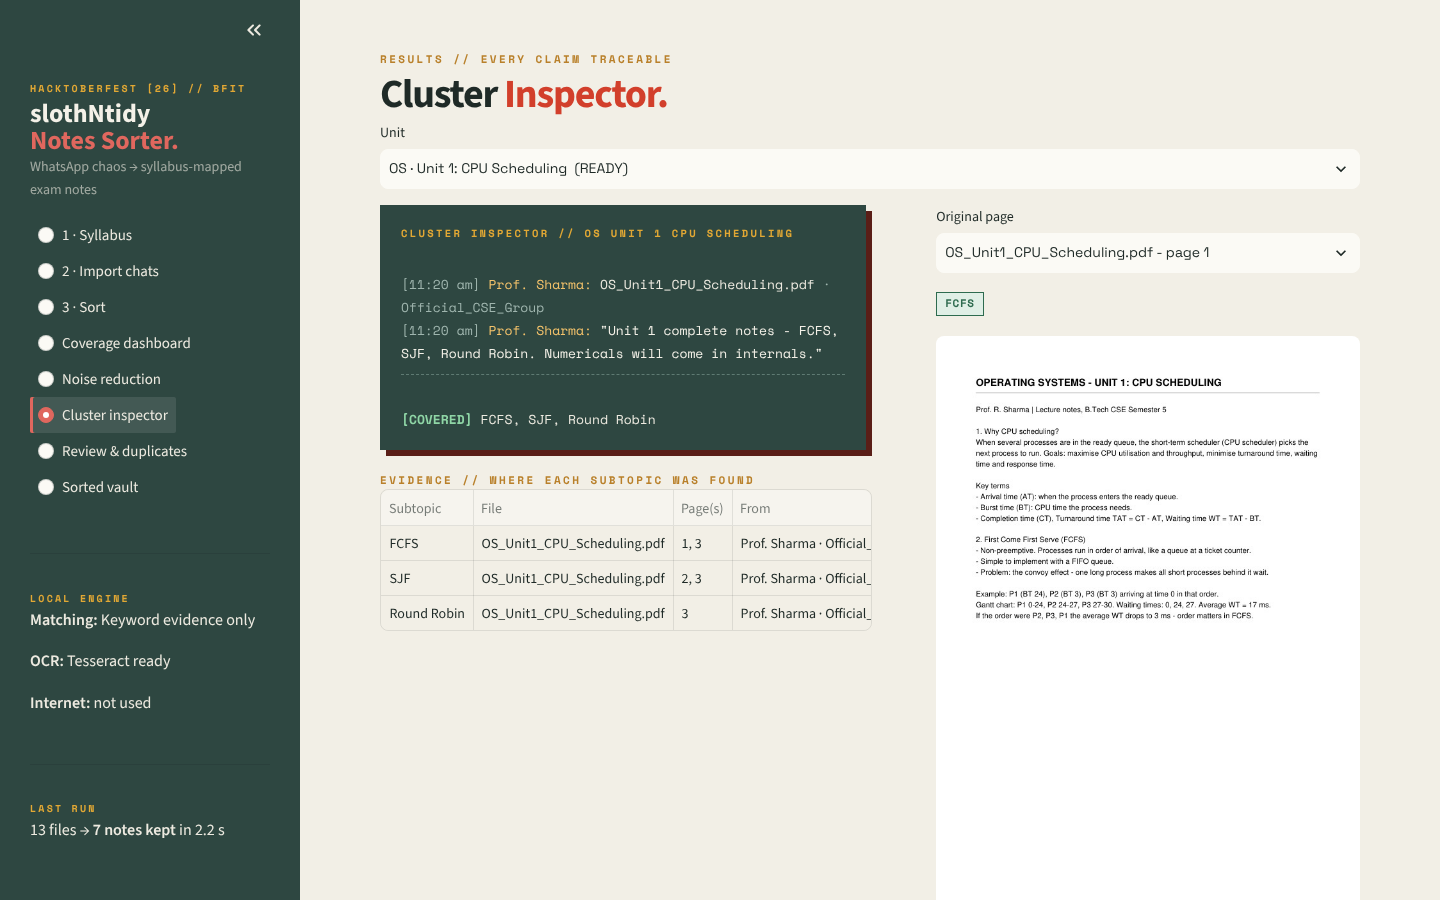
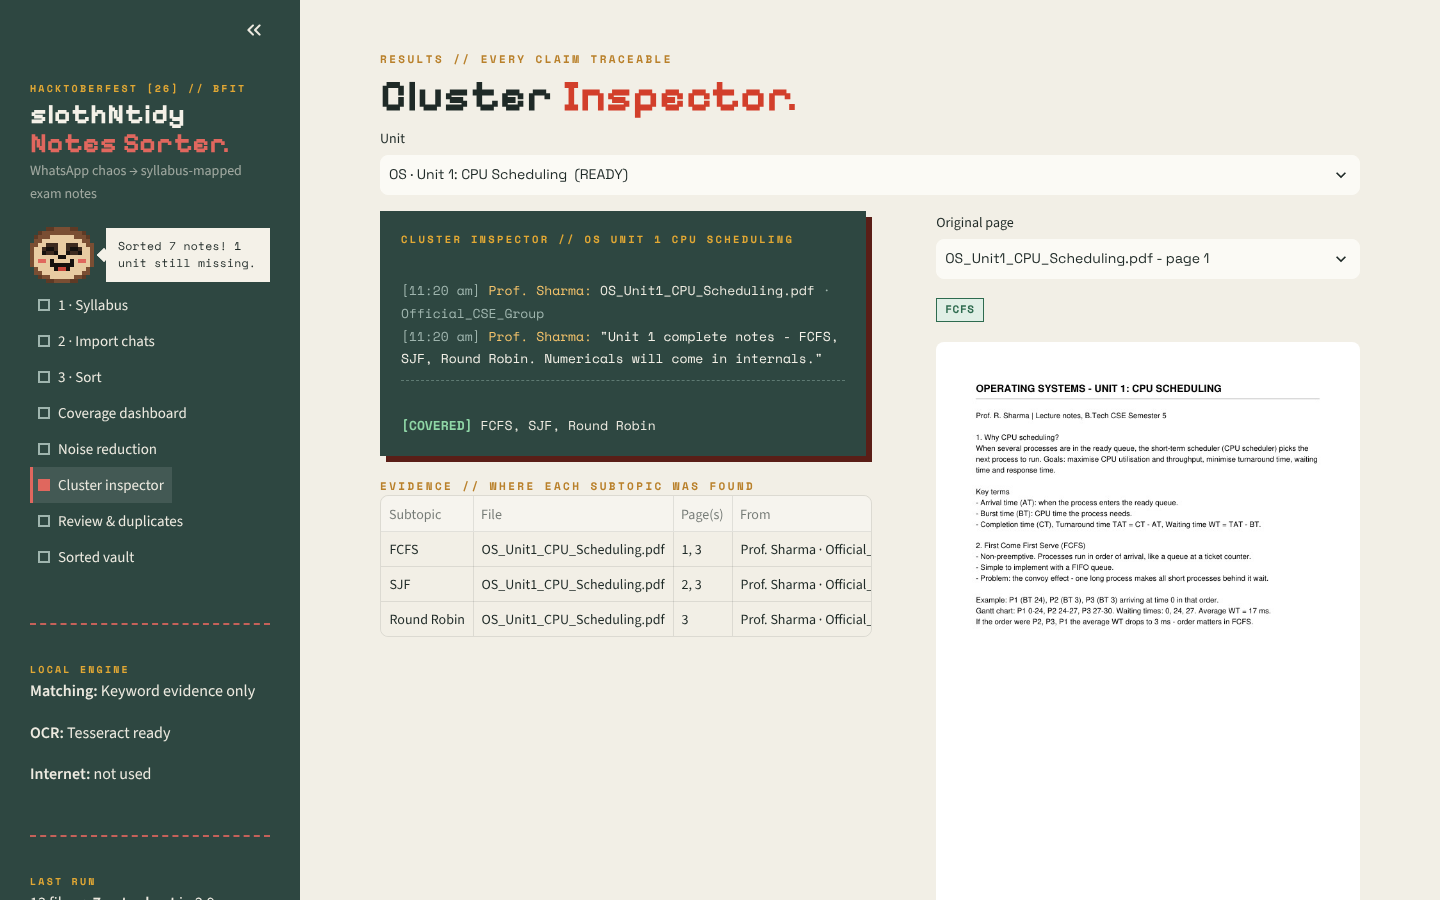
feat(ui): hybrid retro look - pixel titles, Sid the pixel sloth mascot, level-style sorting progress
Deck colours and readable body text kept; pixel font only for titles and logo.

Claude-Session: https://claude.ai/code/session_013TvLScgdniL2RkNJJHxvzR

diff --git a/app.py b/app.py
@@ -20,6 +20,7 @@ from config import (DEMO_INBOX, INBOX_FOLDER, OUTPUT_FOLDER, REPORT_JSON, REPORT
 from embedder import load_embedder
 from parser import scan_inbox
 from pipeline import STAGES, assign_to_unit, mark_not_in_syllabus, restore_removed, run
+from mascot import sloth_with_bubble
 from syllabus import load_syllabus, load_syllabus_doc, save_syllabus_doc
 
 HERE = os.path.dirname(os.path.abspath(__file__))
@@ -50,6 +51,9 @@ def _css():
         _font_face("Space Grotesk", "space-grotesk-latin-700-normal.woff2", 700),
         _font_face("Space Mono", "space-mono-latin-400-normal.woff2", 400),
         _font_face("Space Mono", "space-mono-latin-700-normal.woff2", 700),
+        _font_face("Pixelify Sans", "pixelify-sans-latin-400-normal.woff2", 400),
+        _font_face("Pixelify Sans", "pixelify-sans-latin-600-normal.woff2", 600),
+        _font_face("Pixelify Sans", "pixelify-sans-latin-700-normal.woff2", 700),
     ])
     return faces + """
 :root{--green:#2E4741;--green2:#3B5A52;--coral:#E0675E;--red:#D23F2B;--redbg:#F8DCD6;--cream:#F2EFE6;
@@ -60,21 +64,26 @@ code,pre,.mono{font-family:'Space Mono',ui-monospace,monospace!important;}
 [data-testid="stSidebar"]{background:var(--green);}
 [data-testid="stSidebar"] *{color:#EDEAE0;}
 [data-testid="stSidebar"] .stRadio label p{font-size:15px;}
-[data-testid="stSidebar"] [role="radiogroup"] label{padding:6px 8px;border-radius:2px;}
+[data-testid="stSidebar"] [role="radiogroup"] label{padding:6px 8px;border-radius:0;}
+[data-testid="stSidebar"] [role="radiogroup"] label > div > div:first-child{border-radius:0!important;width:12px!important;height:12px!important;
+ border:2px solid #9FB5AE!important;background:transparent!important;}
+[data-testid="stSidebar"] [role="radiogroup"] label > div > div:first-child > div{display:none!important;}
+[data-testid="stSidebar"] [role="radiogroup"] label:has(input:checked) > div > div:first-child{background:var(--coral)!important;border-color:var(--coral)!important;}
+[data-testid="stSidebar"] hr{border:none!important;border-top:2px dashed var(--coral)!important;opacity:.85;}
 [data-testid="stSidebar"] [role="radiogroup"] label:has(input:checked){background:rgba(255,255,255,.10);box-shadow:inset 3px 0 0 var(--coral);}
 .block-container{padding-top:2.2rem;max-width:1180px;}
 h1,h2,h3{font-family:'Space Grotesk',sans-serif!important;letter-spacing:-.02em;color:var(--ink);}
 .kicker{font-family:'Space Mono',monospace;font-size:11px;letter-spacing:.22em;text-transform:uppercase;color:#B9802A;font-weight:700;}
 .side-kicker{font-family:'Space Mono',monospace;font-size:10px;letter-spacing:.22em;color:var(--mustard)!important;font-weight:700;margin-top:.3rem;}
-.brand{font-size:26px;font-weight:700;line-height:1.05;margin:.2rem 0 .1rem;color:#F4F1E8!important;}
+.brand{font-family:'Pixelify Sans',monospace!important;font-size:28px;font-weight:700;line-height:1.05;margin:.2rem 0 .1rem;color:#F4F1E8!important;letter-spacing:.01em;}
 .brand span{color:var(--coral)!important;}
-.page-title{font-size:40px;font-weight:700;line-height:1.05;margin:.25rem 0 .4rem;color:var(--ink);letter-spacing:-.03em;}
+.page-title{font-family:'Pixelify Sans',monospace!important;font-size:44px;font-weight:700;line-height:1.05;margin:.25rem 0 .5rem;color:var(--ink);letter-spacing:.005em;}
 .page-title span{color:var(--red);}
 .lede{color:var(--muted);font-size:16px;max-width:760px;margin-bottom:1.2rem;}
 .card{background:var(--paper);border:1.5px solid var(--ink);box-shadow:6px 6px 0 var(--shadow);padding:18px 20px;margin:0 6px 18px 0;}
 .card.dark{background:var(--green);color:#EDEAE0;border-color:var(--green);}
 .card.dark *{color:#EDEAE0;}
-.note{background:var(--paper);border:1.5px solid var(--ink);padding:12px 16px;font-size:14px;color:var(--ink);box-shadow:5px 5px 0 var(--shadow);margin:10px 6px 18px 0;}
+.note{background:var(--paper);border:2px dashed var(--ink);padding:12px 16px;font-size:14px;color:var(--ink);box-shadow:5px 5px 0 var(--shadow);margin:10px 6px 18px 0;}
 .note .kicker{display:block;margin-bottom:4px;}
 .stats{display:grid;grid-template-columns:repeat(6,1fr);gap:14px;margin:4px 6px 22px 0;}
 .stat{background:var(--paper);border:1.5px solid var(--ink);padding:12px 14px;box-shadow:4px 4px 0 var(--shadow);}
@@ -106,24 +115,43 @@ h1,h2,h3{font-family:'Space Grotesk',sans-serif!important;letter-spacing:-.02em;
 .chat .ts{color:#9FB5AE;} .chat .who{color:#F4C36B;} .chat .cap{color:#F4F1E8;}
 .chat .cov{color:#8FD6A6;font-weight:700;} .chat .nc{color:#FF8C7A;font-weight:700;} .chat .rv{color:#9DBBF0;font-weight:700;}
 .chat hr{border:none;border-top:1px dashed #5E7A72;margin:10px 0;}
-.how{font-family:'Space Mono',monospace;font-size:12.5px;background:var(--paper);border:1.5px solid var(--ink);padding:12px 16px;margin:16px 6px 16px 0;}
+.how{font-family:'Space Mono',monospace;font-size:12.5px;background:var(--paper);border:2px dashed var(--ink);padding:12px 16px;margin:16px 6px 16px 0;}
 .how b{color:var(--red);}
 .tag{display:inline-block;font-family:'Space Mono',monospace;font-size:11px;font-weight:700;letter-spacing:.06em;padding:2px 8px;border:1.3px solid var(--ink);margin:0 6px 4px 0;background:#fff;}
 .tag.red{background:var(--redbg);color:var(--red);border-color:var(--red);}
 .tag.blue{background:#E2EAF7;color:var(--blue);border-color:var(--blue);}
 .tag.ok{background:#E0EFE6;color:var(--ok);border-color:var(--ok);}
 .stagebar{display:grid;grid-template-columns:repeat(7,1fr);gap:8px;margin:8px 6px 16px 0;}
-.stage{border:1.5px solid var(--ink);padding:10px 8px;background:var(--paper);font-size:13px;font-weight:600;}
-.stage .s{font-family:'Space Mono',monospace;font-size:9.5px;letter-spacing:.2em;color:var(--muted);display:block;}
+.stage{border:2px dashed var(--ink);padding:10px 8px;background:var(--paper);font-size:13px;font-weight:600;}
+.stage .s{font-family:'Pixelify Sans',monospace;font-size:13px;letter-spacing:.06em;color:var(--muted);display:block;}
+.stage.done,.stage.now{border-style:solid;}
 .stage.done{background:var(--green);color:#F4F1E8;} .stage.done .s{color:var(--mustard);}
 .stage.now{background:var(--coral);color:#fff;} .stage.now .s{color:#fff;}
 .tree{font-family:'Space Mono',monospace;font-size:13px;background:var(--paper);border:1.5px solid var(--ink);padding:14px 18px;
  box-shadow:6px 6px 0 var(--shadow);line-height:1.7;white-space:pre;overflow-x:auto;margin-right:6px;}
 div.stButton>button,div.stDownloadButton>button{border-radius:0;border:1.5px solid var(--ink);font-weight:600;box-shadow:3px 3px 0 var(--shadow);}
-div.stButton>button[kind="primary"]{background:var(--coral);color:#fff;border-color:var(--ink);}
+div.stButton>button[kind="primary"]{background:var(--coral);color:#fff;border-color:var(--ink);outline:2px dashed rgba(255,255,255,.75);outline-offset:-6px;}
 div.stButton>button:hover,div.stDownloadButton>button:hover{transform:translate(1px,1px);box-shadow:2px 2px 0 var(--shadow);}
 [data-testid="stExpander"]{border-radius:0;border:1.5px solid var(--ink);background:var(--paper);}
 [data-testid="stFileUploaderDropzone"]{border-radius:0;border:2px dashed var(--green);background:var(--paper);}
+.mascot{display:flex;align-items:center;gap:12px;margin:6px 0 4px;position:relative;}
+.mascot .sloth{flex:none;image-rendering:pixelated;}
+.mascot .sloth-working{animation:bob .5s steps(2) infinite;}
+.mascot .sloth-happy{animation:hop 1.6s steps(2) infinite;}
+@keyframes bob{50%{transform:translateY(-3px);}}
+@keyframes hop{0%,70%{transform:none;}85%{transform:translateY(-4px);}}
+.bubble{position:relative;background:#fff;color:var(--ink)!important;border:2px dashed var(--ink);font-family:'Space Mono',monospace;
+ font-size:11.5px;line-height:1.45;padding:8px 10px;letter-spacing:.02em;}
+.bubble *{color:var(--ink)!important;}
+.bubble::before{content:"";position:absolute;left:-9px;top:50%;width:10px;height:10px;background:#fff;
+ border-left:2px dashed var(--ink);border-bottom:2px dashed var(--ink);transform:translateY(-50%) rotate(45deg);}
+[data-testid="stSidebar"] .bubble{background:#F4F1E8;border-color:#F4F1E8;}
+[data-testid="stSidebar"] .bubble::before{background:#F4F1E8;border-color:#F4F1E8;}
+.zz{position:absolute;left:62px;top:-6px;font-family:'Pixelify Sans',monospace;color:var(--mustard)!important;font-size:13px;
+ animation:zz 2s steps(3) infinite;}
+.zz b{font-size:16px;color:var(--mustard)!important;} .zz i{font-size:19px;font-style:normal;color:var(--mustard)!important;}
+@keyframes zz{0%{opacity:.3;}50%{opacity:1;}100%{opacity:.3;}}
+.hero-mascot{border:2px dashed var(--ink);background:var(--paper);padding:14px 18px;margin:0 6px 18px 0;box-shadow:5px 5px 0 var(--shadow);}
 @media (max-width:900px){.stats{grid-template-columns:repeat(2,1fr);}.thead{display:none;}.stagebar{grid-template-columns:repeat(4,1fr);}
  .funnel-row{grid-template-columns:1fr;}}
 """
@@ -248,6 +276,14 @@ with st.sidebar:
     st.markdown('<div class="side-kicker">HACKTOBERFEST [26] // BFIT</div>'
                 '<div class="brand">slothNtidy<br><span>Notes Sorter.</span></div>', unsafe_allow_html=True)
     st.caption("WhatsApp chaos → syllabus-mapped exam notes")
+    if R:
+        _miss = sum(u["status"] == "MISSING" for u in R["units"])
+        _msg = (f"Sorted {R['counts']['kept']} notes! {_miss} unit{'s' if _miss != 1 else ''} still missing."
+                if _miss else f"Sorted {R['counts']['kept']} notes. Every unit has notes!")
+        st.markdown(sloth_with_bubble("happy", _msg, px=4), unsafe_allow_html=True)
+    else:
+        st.markdown(sloth_with_bubble("sleeping", "Wake me up: drop your class groups in.", px=4),
+                    unsafe_allow_html=True)
     st.radio("Go to", PAGES, key="nav", label_visibility="collapsed")
     st.divider()
     st.markdown('<div class="side-kicker">LOCAL ENGINE</div>', unsafe_allow_html=True)
@@ -385,7 +421,8 @@ def stagebar(active=-1, done_upto=-1):
     cells = []
     for i, s in enumerate(STAGES):
         cls = "done" if i <= done_upto else ("now" if i == active else "")
-        cells.append(f'<div class="stage {cls}"><span class="s">STAGE 0{i + 1}</span>{s}</div>')
+        tag = "✓ CLEAR" if i <= done_upto else f"LEVEL {i + 1}"
+        cells.append(f'<div class="stage {cls}"><span class="s">{tag}</span>{s}</div>')
     return '<div class="stagebar">' + "".join(cells) + "</div>"
 
 
@@ -399,6 +436,10 @@ def page_sort():
     st.markdown(f'<div class="note"><span class="kicker">READY</span>{n} file(s) from {src} · '
                 f'syllabus with {len(load_syllabus())} units · '
                 f'engine: {esc(embedder.name if embedder else "keyword evidence only")}</div>', unsafe_allow_html=True)
+    buddy = st.empty()
+    buddy.markdown('<div class="hero-mascot">' + sloth_with_bubble(
+        "sleeping", f"Ready when you are. {n} file{'s' if n != 1 else ''} waiting - press <b>Sort my notes</b>.", px=7)
+        + "</div>", unsafe_allow_html=True)
     bar = st.empty()
     bar.markdown(stagebar(), unsafe_allow_html=True)
     if not st.button("Sort my notes", type="primary", disabled=n == 0):
@@ -414,6 +455,9 @@ def page_sort():
 
     def progress(i, name, done, total, msg):
         bar.markdown(stagebar(active=i, done_upto=i - 1), unsafe_allow_html=True)
+        buddy.markdown('<div class="hero-mascot">' + sloth_with_bubble(
+            "working", f"LEVEL {i + 1}/{len(STAGES)} · {esc(name)}<br>{esc(msg)[:70]}", px=7) + "</div>",
+            unsafe_allow_html=True)
         frac = (i + (done / total if total else 1)) / len(STAGES)
         prog.progress(min(frac, 1.0), text=f"Stage {i + 1} · {name}: {msg}")
 
@@ -427,6 +471,9 @@ def page_sort():
         log_box.code("\n".join(lines), language=None)
         return
     bar.markdown(stagebar(done_upto=len(STAGES) - 1), unsafe_allow_html=True)
+    buddy.markdown('<div class="hero-mascot">' + sloth_with_bubble(
+        "happy", f"ALL LEVELS CLEAR! {result['counts']['total']} files → {result['counts']['kept']} notes "
+                 f"in {result['seconds']} s. Opening your dashboard...", px=7) + "</div>", unsafe_allow_html=True)
     prog.progress(1.0, text=f"Done in {result['seconds']} s")
     log_box.code("\n".join(lines), language=None)
     st.session_state.result = result

diff --git a/mascot.py b/mascot.py
@@ -1,0 +1,78 @@
+"""Sid the sloth - slothNtidy's pixel mascot, drawn as an SVG from a character grid.
+
+Each letter in a grid row is one pixel. Three moods: sleeping (before sorting),
+working (while sorting) and happy (when results are ready).
+"""
+
+PALETTE = {
+    "B": "#7A4E33",  # fur
+    "b": "#5E3A25",  # fur shadow
+    "L": "#E8CBA2",  # face
+    "D": "#3D2A1F",  # eye patches
+    "K": "#16110E",  # eyes / mouth
+    "W": "#FFFFFF",  # eye shine
+    "P": "#E0675E",  # cheeks (deck coral)
+    "T": "#C9463A",  # tongue
+}
+
+_TOP = [
+    "....bbBBBBbb....",
+    "..bBBBBBBBBBBb..",
+    ".bBBBLLLLLLBBBb.",
+    ".BBLLLLLLLLLLBB.",
+]
+_BOTTOM_ROWS = {
+    "sleeping": [
+        "BBLLDDDLLDDDLLBB",
+        "BLLDDDDLLDDDDLLB",
+        "BLLDKKDLLDKKDLLB",
+        "BLLLLLLKKLLLLLLB",
+        "BLPPLLLLLLLLPPLB",
+        "BLLLLLLLLLLLLLLB",
+        ".BLLLLKKKKLLLLB.",
+    ],
+    "working": [
+        "BBLLDDDLLDDDLLBB",
+        "BLLDKWDLLDKWDLLB",
+        "BLLDKKDLLDKKDLLB",
+        "BLLLLLLKKLLLLLLB",
+        "BLPPLLLLLLLLPPLB",
+        "BLLLLLKKKKLLLLLB",
+        ".BLLLLLKKLLLLLB.",
+    ],
+    "happy": [
+        "BBLLDDDLLDDDLLBB",
+        "BLLDKKDLLDKKDLLB",
+        "BLLKDDKLLKDDKLLB",
+        "BLLLLLLKKLLLLLLB",
+        "BLPPLKLLLLKLPPLB",
+        "BLLLLKKKKKKLLLLB",
+        ".BLLLLKTTKLLLLB.",
+    ],
+}
+_CHIN = [
+    ".BBLLLLLLLLLLBB.",
+    "..bBBLLLLLLBBb..",
+    "....bbBBBBbb....",
+]
+
+
+def sloth_svg(mood: str = "happy", px: int = 6) -> str:
+    rows = _TOP + _BOTTOM_ROWS.get(mood, _BOTTOM_ROWS["happy"]) + _CHIN
+    w, h = len(rows[0]), len(rows)
+    rects = []
+    for y, row in enumerate(rows):
+        for x, ch in enumerate(row):
+            if ch in PALETTE:
+                rects.append(f'<rect x="{x}" y="{y}" width="1.02" height="1.02" fill="{PALETTE[ch]}"/>')
+    return (f'<svg class="sloth sloth-{mood}" xmlns="http://www.w3.org/2000/svg" viewBox="0 0 {w} {h}" '
+            f'width="{w * px}" height="{h * px}" shape-rendering="crispEdges" role="img" '
+            f'aria-label="Sid the sloth, {mood}">{"".join(rects)}</svg>')
+
+
+def sloth_with_bubble(mood: str, message: str, px: int = 6, dark: bool = False) -> str:
+    """The mascot with a dashed speech bubble next to it."""
+    zz = '<span class="zz">z<b>z</b><i>z</i></span>' if mood == "sleeping" else ""
+    cls = "bubble dark" if dark else "bubble"
+    return (f'<div class="mascot">{zz}{sloth_svg(mood, px)}'
+            f'<div class="{cls}">{message}</div></div>')
